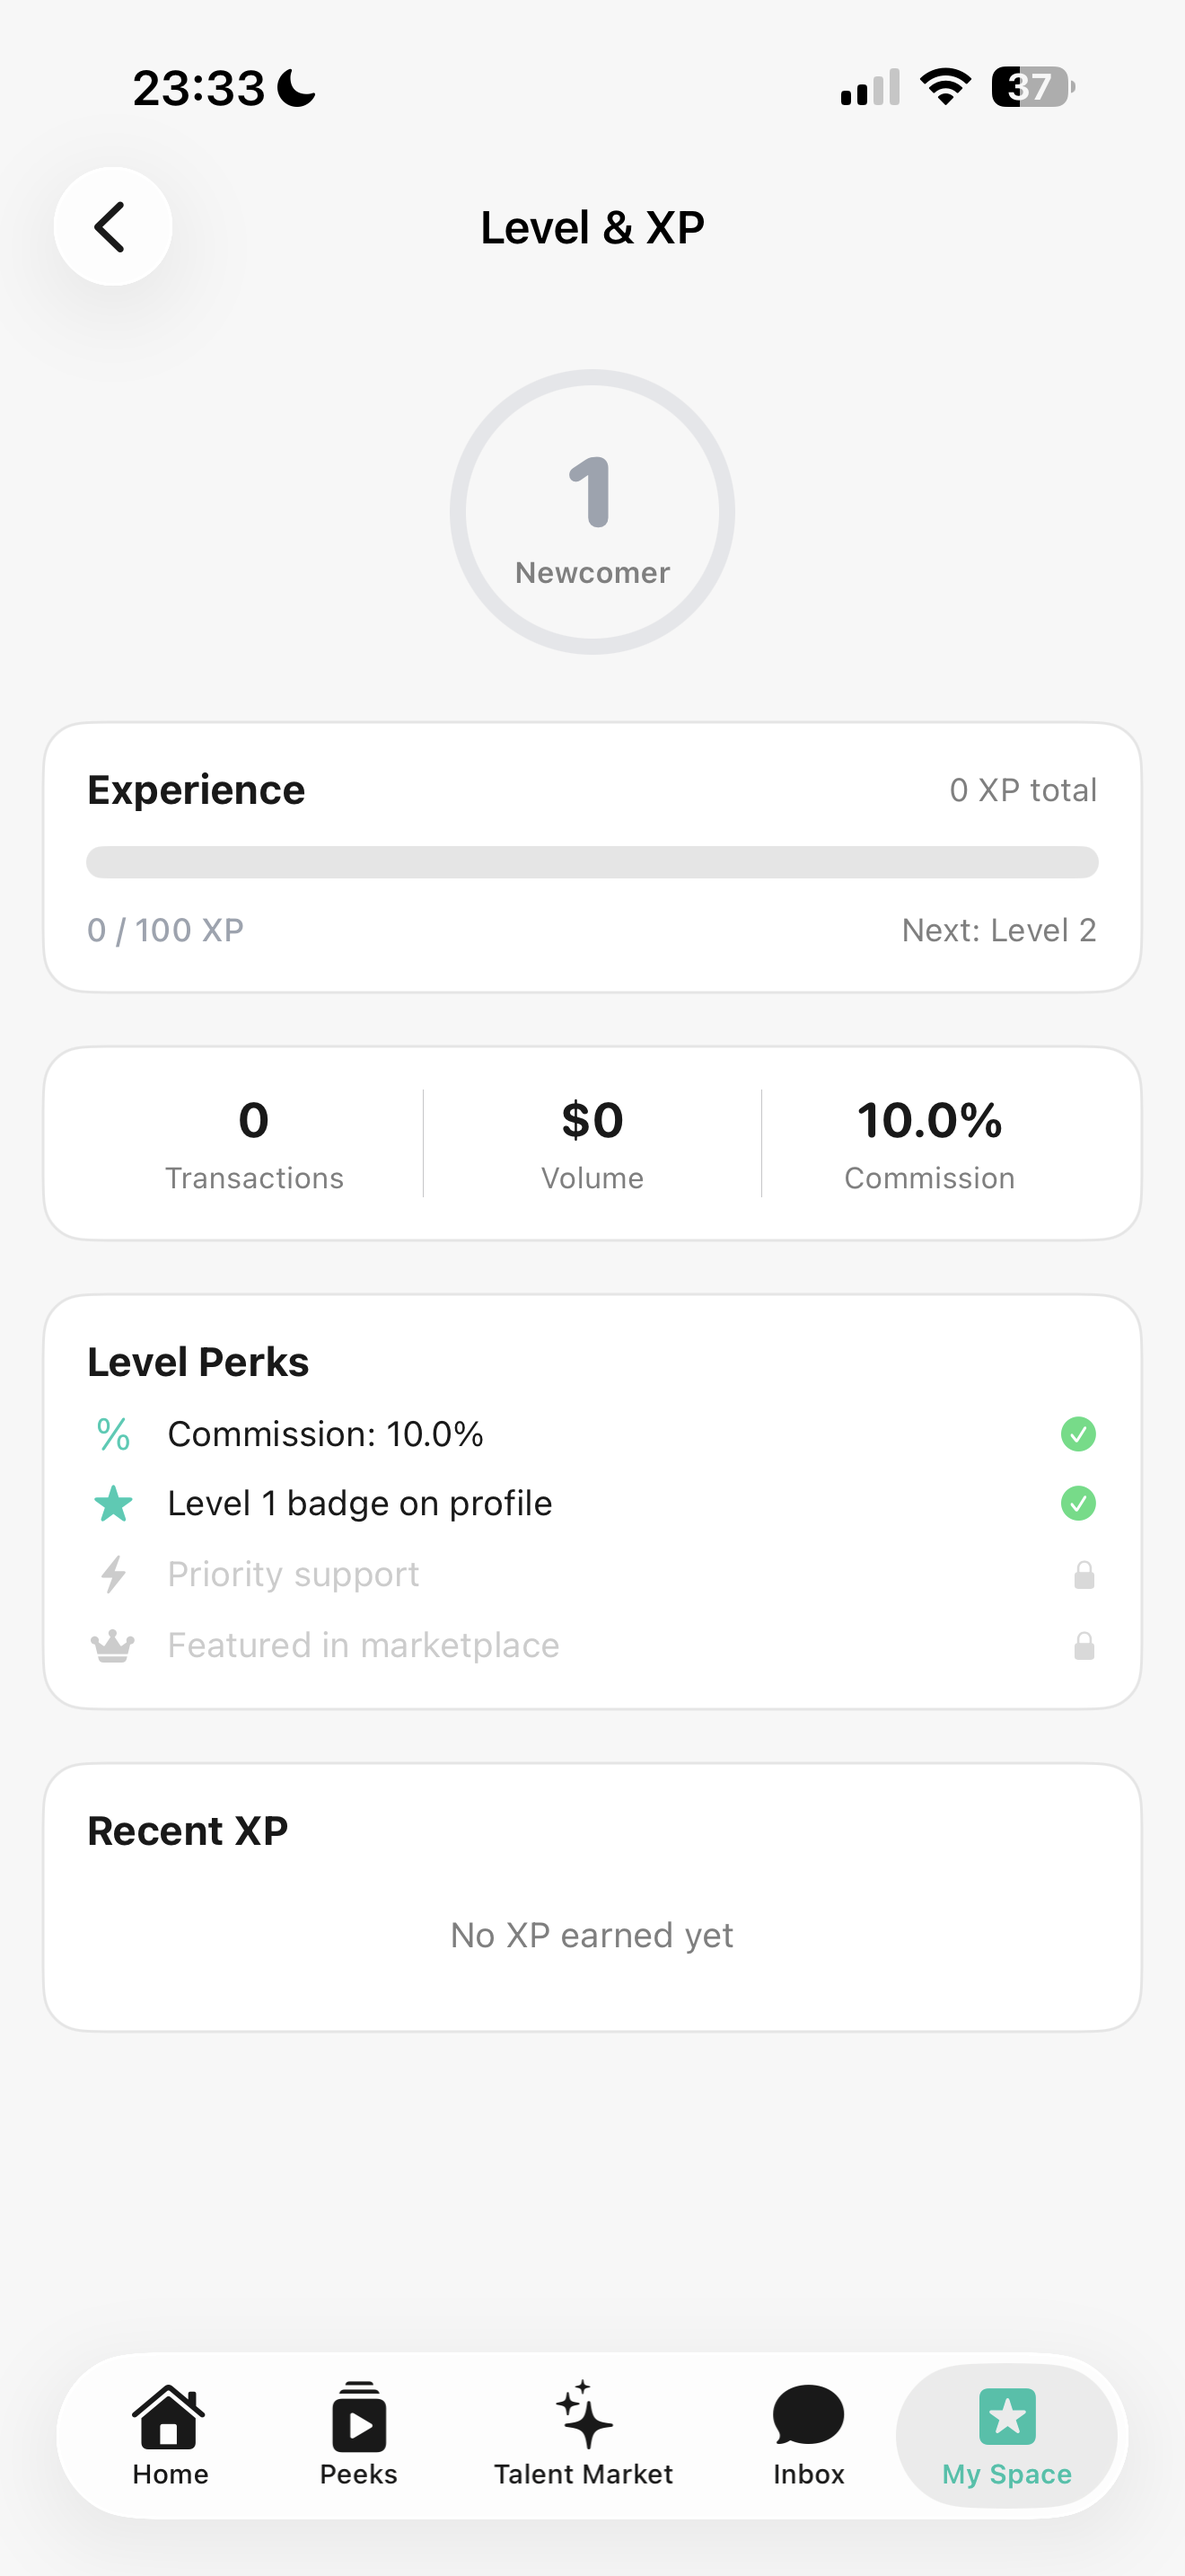
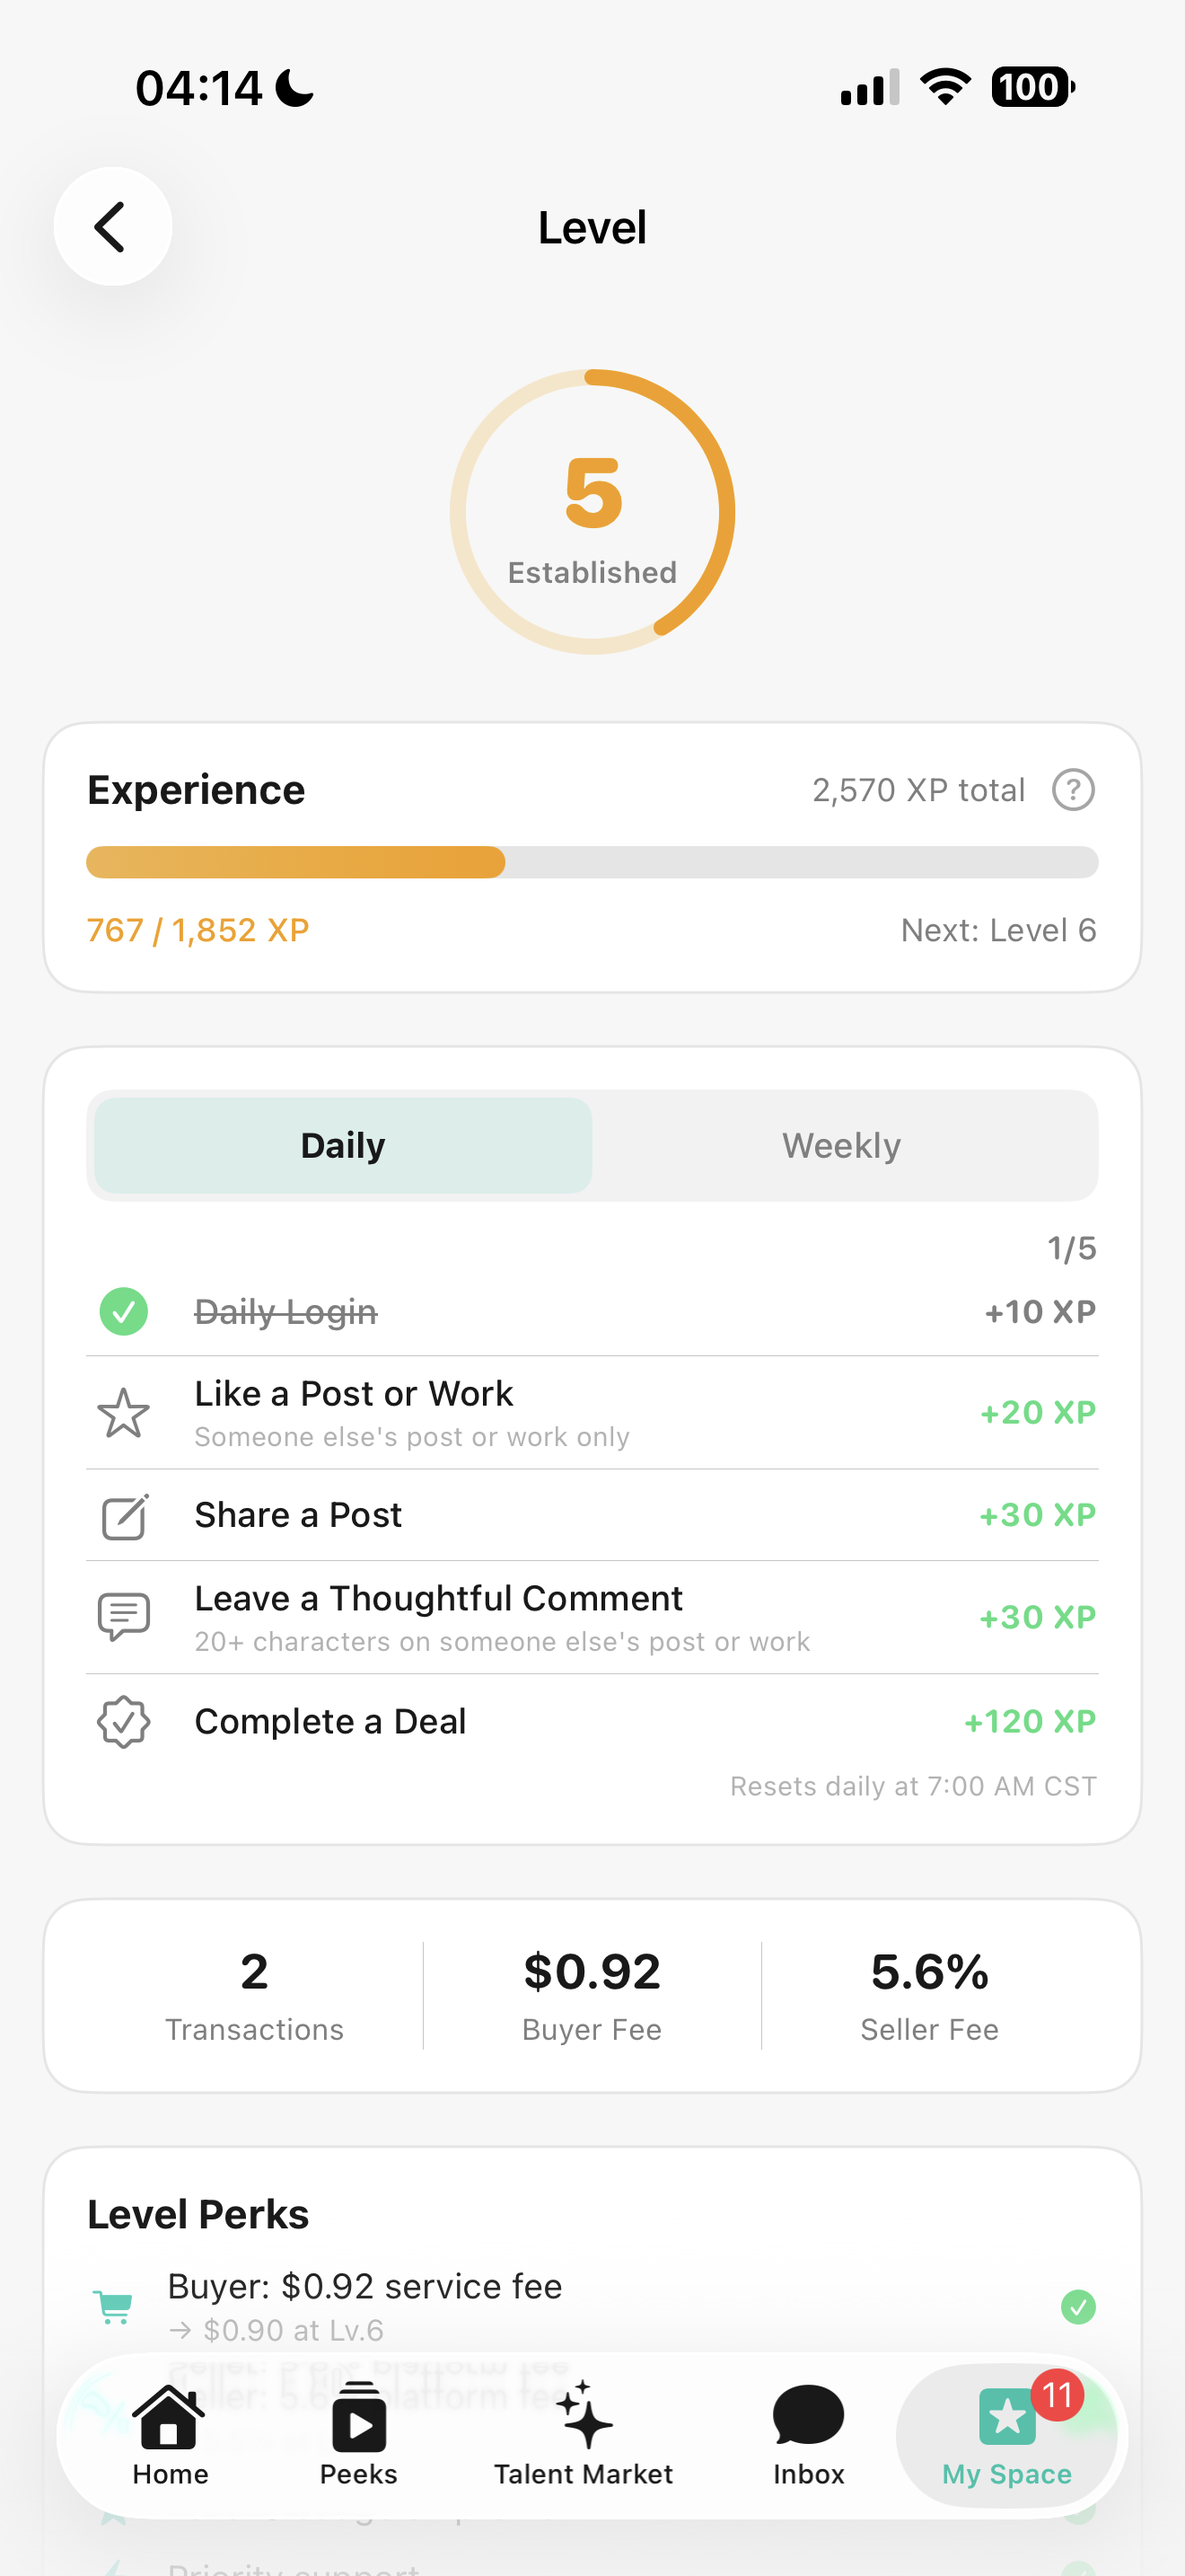
Update level copy for quests and perks

diff --git a/index.html b/index.html
@@ -524,7 +524,7 @@
           </div>
           <div class="metric fade">
             <strong>Level Up</strong>
-            <span>As you level up, your commission fee goes down so you keep more from each sale.</span>
+            <span>Complete daily and weekly quests, level up, and unlock perks that help grow your earnings.</span>
           </div>
           <div class="metric fade">
             <strong>Achievements</strong>
@@ -604,11 +604,11 @@
             <div class="peeks-grid">
               <article class="shot fade">
                 <div class="phone-frame">
-                  <img src="assets/level.png" alt="Talor level up feature screen" loading="lazy" />
+                  <img src="assets/level.png?v=20260402" alt="Talor quests and perks screen" loading="lazy" />
                 </div>
                 <div class="shot-caption">
                   <strong>Level Up</strong>
-                  <span>Higher levels lower your commission rate automatically so you keep more revenue.</span>
+                  <span>Take on daily and weekly quests, then level up to open perks that boost your revenue.</span>
                 </div>
               </article>
 
@@ -649,8 +649,8 @@
               <p>Every post, follow, and purchase builds momentum so confidence and income can grow together.</p>
             </article>
             <article class="value fade">
-              <h3>Level-based fee benefits</h3>
-              <p>As you level up, Talor lowers your commission rate automatically based on your seller progress.</p>
+              <h3>Quest & perk progression</h3>
+              <p>Clear daily and weekly quests, level up, and unlock perks designed to strengthen your long-term earnings.</p>
             </article>
             <article class="value fade">
               <h3>Achievement rewards</h3>
